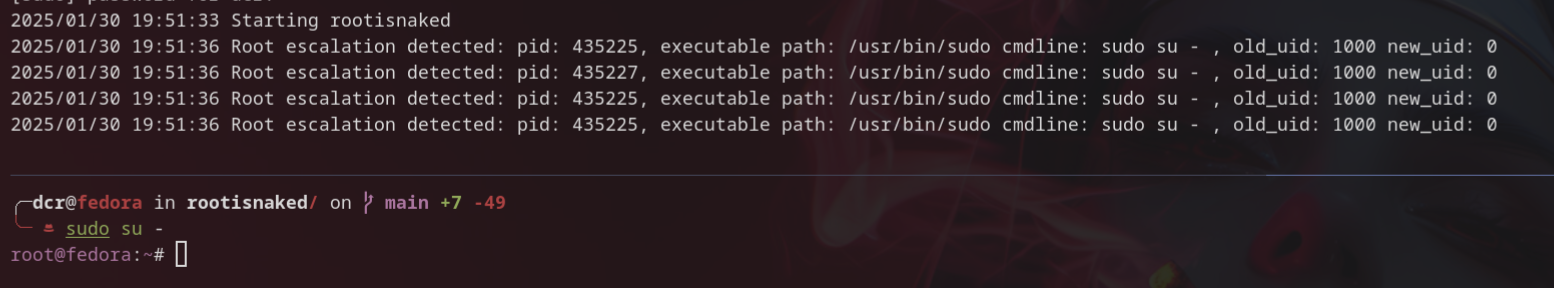
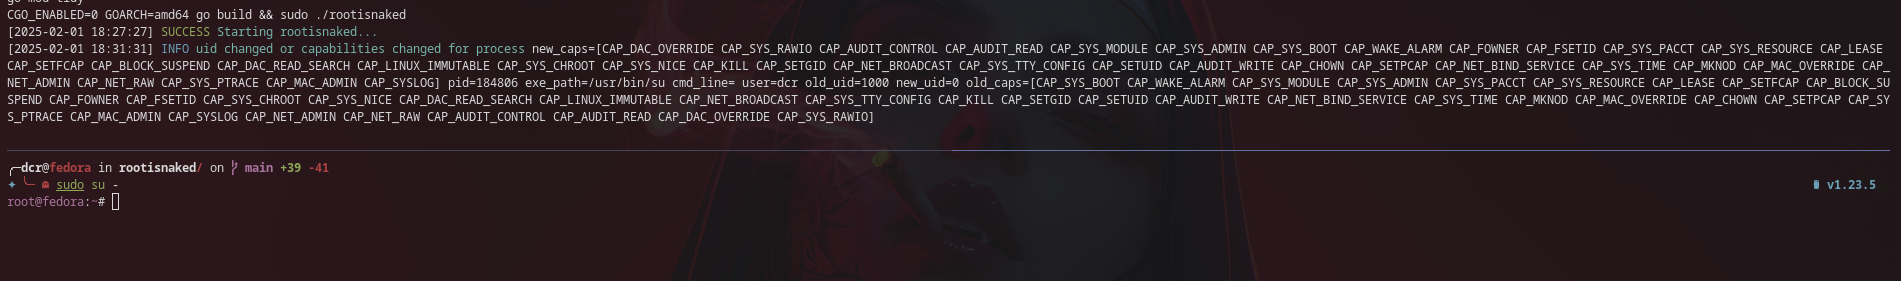
Add linux capabilities tracking

diff --git a/program/check_commit_creds.bpf.c b/program/check_commit_creds.bpf.c
@@ -19,6 +19,8 @@ struct event {
     pid_t tgid;       // Thread group ID (process ID) of the task
     u32 old_uid;      // Original UID before the change
     u32 new_uid;      // New UID after the change
+    u64 old_caps;     // Old effective capabilities
+    u64 new_caps;     // New effective capabilities
 };
 
 // Define a ring buffer map to pass events from kernel to user space
@@ -39,6 +41,7 @@ int commit_creds(struct pt_regs *regs)
     const struct cred *old_cred, *new_cred; // Old and new credentials
     struct event *data; // Pointer to the event data structure
     kuid_t old_uid, new_uid; // Old and new UIDs
+    u64 old_caps, new_caps; // Old and new effective capabilities
 
     // Get the new credentials from the first argument of `commit_creds`
     new_cred = (struct cred*)PT_REGS_PARM1(regs);
@@ -58,8 +61,13 @@ int commit_creds(struct pt_regs *regs)
     old_uid = BPF_CORE_READ(old_cred, uid); // Read old UID
     new_uid = BPF_CORE_READ(new_cred, uid); // Read new UID
 
+    // Read the old and new effective capabilities
+    old_caps = BPF_CORE_READ(old_cred, cap_effective.val);
+    new_caps = BPF_CORE_READ(new_cred, cap_effective.val);
+
     // Check if the new UID is 0 (root) and the old UID was greater than 0 (non-root)
-    if (new_uid.val == 0 && old_uid.val > 0) {
+    // OR if the process gains new capabilities
+    if ((new_uid.val == 0 && old_uid.val > 0) || (new_caps != old_caps)) {
         // Reserve space in the ring buffer for the event data
         data = bpf_ringbuf_reserve(&events, sizeof(struct event), 0);
         if (!data) {
@@ -72,6 +80,8 @@ int commit_creds(struct pt_regs *regs)
         data->tgid = BPF_CORE_READ(task, tgid); // Get the process ID
         data->old_uid = old_uid.val;            // Store the old UID
         data->new_uid = new_uid.val;            // Store the new UID
+        data->old_caps = old_caps;              // Store the old capabilities
+        data->new_caps = new_caps;              // Store the new capabilities
 
         // Submit the event to the ring buffer for user space to process
         bpf_ringbuf_submit(data, 0);

diff --git a/program/check_commit_creds.go b/program/check_commit_creds.go
@@ -5,9 +5,9 @@ import (
 	"encoding/binary"
 	"errors"
 	"fmt"
+
 	devstdout "github.com/containerscrew/devstdout/pkg"
-	"os"
-	"strings"
+	"github.com/containerscrew/rootisnaked/utils"
 
 	"github.com/cilium/ebpf/link"
 	"github.com/cilium/ebpf/ringbuf"
@@ -15,27 +15,6 @@ import (
 )
 
 //go:generate go run github.com/cilium/ebpf/cmd/bpf2go -target amd64 -type event -tags linux bpf check_commit_creds.bpf.c -- -I../headers
-
-// Function to read process executable path
-func getExecutablePath(pid int32) string {
-	path := fmt.Sprintf("/proc/%d/exe", pid)
-	exePath, err := os.Readlink(path)
-	if err != nil {
-		return "unknown"
-	}
-	return exePath
-}
-
-// Function to read full command line
-func getCommandLine(pid int32) string {
-	path := fmt.Sprintf("/proc/%d/cmdline", pid)
-	data, err := os.ReadFile(path)
-	if err != nil {
-		return "unknown"
-	}
-	// Replace null characters with spaces to reconstruct the full command line
-	return strings.ReplaceAll(string(data), "\x00", " ")
-}
 
 func GetCommitCreds(log *devstdout.CustomLogger) {
 	// Name of the kernel function to trace.
@@ -84,16 +63,21 @@ func GetCommitCreds(log *devstdout.CustomLogger) {
 		}
 
 		// Fetch additional process details
-		exePath := getExecutablePath(event.Tgid)
-		cmdLine := getCommandLine(event.Tgid)
+		exePath := utils.GetExecutablePath(event.Tgid)
+		cmdLine := utils.GetCommandLine(event.Tgid)
 
-		if cmdLine != "" {
-			log.Info("Root privilege escalation detected",
+		// Log the event.
+
+		if cmdLine == "" {
+			log.Info("uid changed or capabilities changed for process",
 				devstdout.Argument("pid", event.Tgid),
 				devstdout.Argument("exe_path", exePath),
 				devstdout.Argument("cmd_line", cmdLine),
+				devstdout.Argument("user", utils.GetUserFromID(int(event.OldUid))),
 				devstdout.Argument("old_uid", event.OldUid),
 				devstdout.Argument("new_uid", event.NewUid),
+				devstdout.Argument("old_caps", utils.DecodeCapabilities(event.OldCaps)),
+				devstdout.Argument("new_caps", utils.DecodeCapabilities(event.NewCaps)),
 			)
 		}
 	}

diff --git a/utils/capabilities.go b/utils/capabilities.go
@@ -1,0 +1,55 @@
+package utils
+
+// List of Linux capabilities based on the capability bitmask
+var capNames = map[uint64]string{
+	1:        "CAP_CHOWN",
+	2:        "CAP_DAC_OVERRIDE",
+	4:        "CAP_DAC_READ_SEARCH",
+	8:        "CAP_FOWNER",
+	16:       "CAP_FSETID",
+	32:       "CAP_KILL",
+	64:       "CAP_SETGID",
+	128:      "CAP_SETUID",
+	256:      "CAP_SETPCAP",
+	512:      "CAP_LINUX_IMMUTABLE",
+	1024:     "CAP_NET_BIND_SERVICE",
+	2048:     "CAP_NET_BROADCAST",
+	4096:     "CAP_NET_ADMIN",
+	8192:     "CAP_NET_RAW",
+	16384:    "CAP_SYS_CHROOT",
+	32768:    "CAP_SYS_PTRACE",
+	65536:    "CAP_SYS_MODULE",
+	131072:   "CAP_SYS_RAWIO",
+	262144:   "CAP_SYS_PACCT",
+	524288:   "CAP_SYS_ADMIN",
+	1048576:  "CAP_SYS_BOOT",
+	2097152:  "CAP_SYS_NICE",
+	4194304:  "CAP_SYS_RESOURCE",
+	8388608:  "CAP_SYS_TIME",
+	16777216: "CAP_SYS_TTY_CONFIG",
+	33554432: "CAP_MKNOD",
+	67108864: "CAP_LEASE",
+	134217728:"CAP_AUDIT_WRITE",
+	268435456:"CAP_AUDIT_CONTROL",
+	536870912:"CAP_SETFCAP",
+	1073741824:"CAP_MAC_OVERRIDE",
+	2147483648:"CAP_MAC_ADMIN",
+	4294967296:"CAP_SYSLOG",
+	8589934592:"CAP_WAKE_ALARM",
+	17179869184:"CAP_BLOCK_SUSPEND",
+	34359738368:"CAP_AUDIT_READ",
+}
+
+// Function to decode the capability bitmask
+func DecodeCapabilities(mask uint64) []string {
+	var capabilities []string
+
+	// Iterate over the capNames map and check if each capability is set in the bitmask
+	for bit, cap := range capNames {
+		if mask&bit != 0 {
+			capabilities = append(capabilities, cap)
+		}
+	}
+
+	return capabilities
+}

diff --git a/notifications/notify.go b/notifications/notify.go
@@ -1,17 +1,21 @@
 package notifications
 
-import (
-	"log"
-	"os/exec"
-)
+// For linux native notifications
+// func SendNotification(var1, var2 string) error {
+// 	title := "Privilege Escalation Detected!"
+// 	message := fmt.Sprintf("User ID changed from %d to %d", var1, var2)
 
-func SendNotification(title, message string) {
-	cmd := exec.Command("notify-send tete tete")
-	err := cmd.Run()
-	if err != nil {
-		log.Print("Failed to send notification:", err)
-	}
-}
+// 	return beeep.Alert(title, message, "")
+// }
+
+// func SendNotification(var1, var2 string) error {
+// 	title := "Privilege Escalation Detected!"
+// 	message := fmt.Sprintf("User ID changed from %s to %s", var1, var2)
+
+// 	// Use notify-send (Linux)
+// 	cmd := exec.Command("notify-send", title, message)
+// 	return cmd.Run()
+// }
 
 // TODO: implement this "github.com/getlantern/systray" package
 

diff --git a/utils/utils.go b/utils/utils.go
@@ -1,0 +1,38 @@
+package utils
+
+import (
+	"fmt"
+	"os"
+	"os/user"
+	"strconv"
+	"strings"
+)
+
+// Function to read process executable path
+func GetExecutablePath(pid int32) string {
+	path := fmt.Sprintf("/proc/%d/exe", pid)
+	exePath, err := os.Readlink(path)
+	if err != nil {
+		return "unknown"
+	}
+	return exePath
+}
+
+// Function to read full command line
+func GetCommandLine(pid int32) string {
+	path := fmt.Sprintf("/proc/%d/cmdline", pid)
+	data, err := os.ReadFile(path)
+	if err != nil {
+		return "unknown"
+	}
+	// Replace null characters with spaces to reconstruct the full command line
+	return strings.ReplaceAll(string(data), "\x00", " ")
+}
+
+func GetUserFromID(uid int) string {
+	usr, err := user.LookupId(strconv.Itoa(uid))
+	if err != nil {
+		return "unknown user"
+	}
+	return usr.Username
+}

diff --git a/main.go b/main.go
@@ -7,7 +7,7 @@ import (
 
 func main() {
 	log := devstdout.NewLogger(
-		devstdout.OptionsLogger{Level: "info", AddSource: false, LoggerType: "console"},
+		devstdout.OptionsLogger{Level: "info", AddSource: false, LoggerType: "pretty"},
 	)
 
 	log.Success("Starting rootisnaked...")
